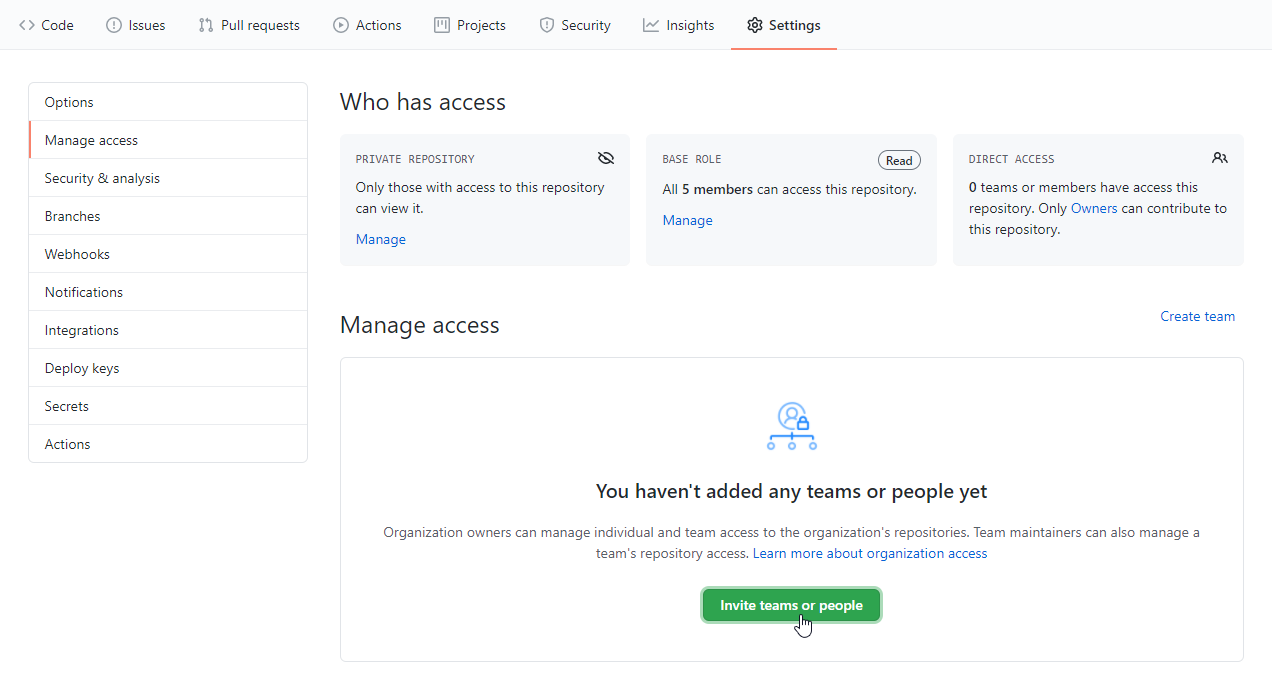
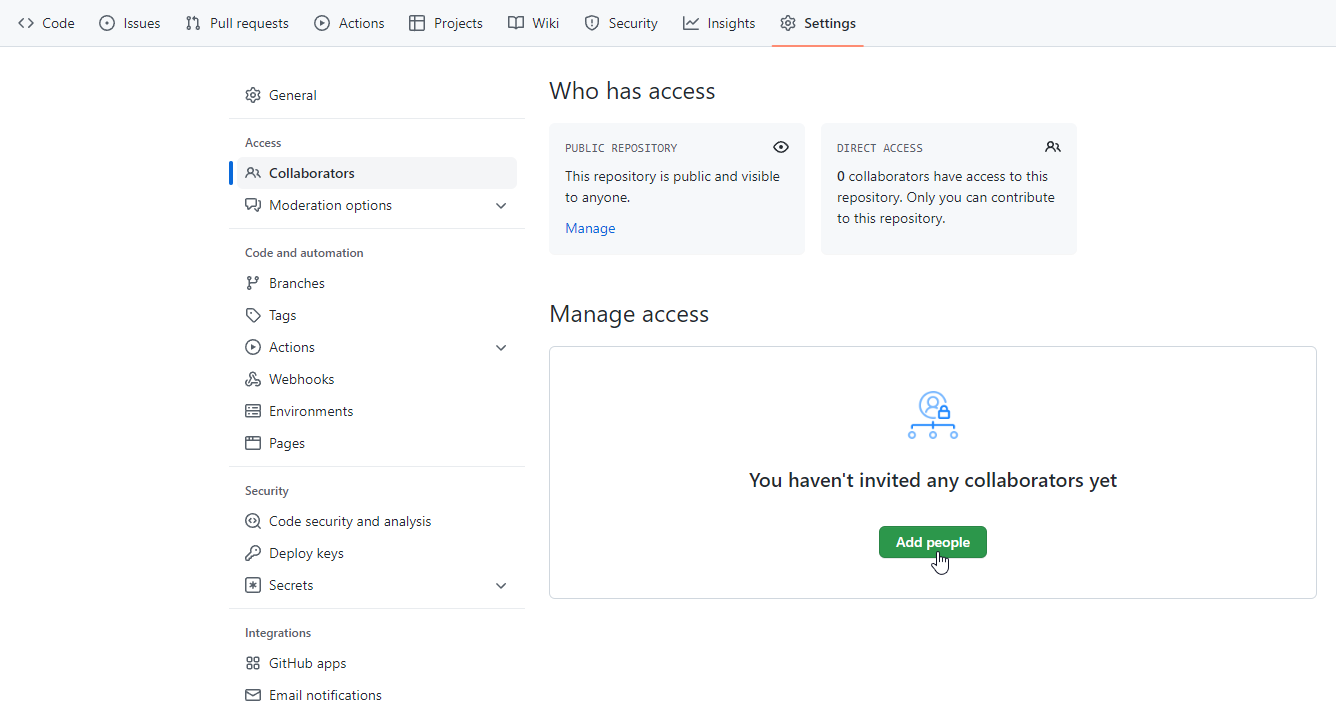
Aktualizace pozvánek

diff --git a/README.md b/README.md
@@ -4,7 +4,7 @@ Vyrobte webovou stránku, kde představíte sebe a svůj závěrečný projekt. 
 
 ## Zadání
 
-- Pracujte ve dvojicích. Založte na GitHubu repozitář `o-projektu` u jedné z vás, tu druhou si pozvěte jako spolupracovnici (záložka `Settings` > `Manage access` > `Invite teams or people`).
+- Pracujte ve dvojicích. Založte na GitHubu repozitář `o-projektu` u jedné z vás, tu druhou si pozvěte jako spolupracovnici (záložka `Settings` > `Collaborators` > `Add people`).
 
   ![pozvánka](./zadani/pozvanka.png)
 
@@ -12,7 +12,7 @@ Vyrobte webovou stránku, kde představíte sebe a svůj závěrečný projekt. 
 
   ![historie](./zadani/historie.png)
 
-- Použijte minimálně tři HTML soubory, které budou spolu provázané přes odkazy `<a href="_____.html">` tak, aby se z každé stránky dalo dostat na zbylé dvě.
+- Použijte minimálně tři HTML soubory, které budou spolu provázané přes odkazy `<a href="_____.html">` tak, aby se z každé stránky dalo dostat na zbylé dvě. (V případě použití Reactu použijte několik komponent. Viz bonus.)
 
   - Pro odkazy navrhněte vzhled a strukturu společného menu, které bude na všech stránkách stejné.
   - Jednu stránku věnujte informacím o projektu, který chcete v rámci akademie společně vytvořit. Stačí název a jeden odstavec textu.
@@ -20,7 +20,7 @@ Vyrobte webovou stránku, kde představíte sebe a svůj závěrečný projekt. 
 
 - Styly si můžete napsat kompletně vlastní nebo vycházet z libovolného frameworku jako je například [Bootstrap](https://getbootstrap.com/).
 
-- Výsledný web zveřejněte pomocí GitHub Pages a odkaz na něj dejte do sekce `About`.
+- Výsledný web zveřejněte pomocí GitHub Pages a odkaz na něj dejte do sekce GitHub popisku `About`.
 
   ![About](./zadani/about.png)
 
